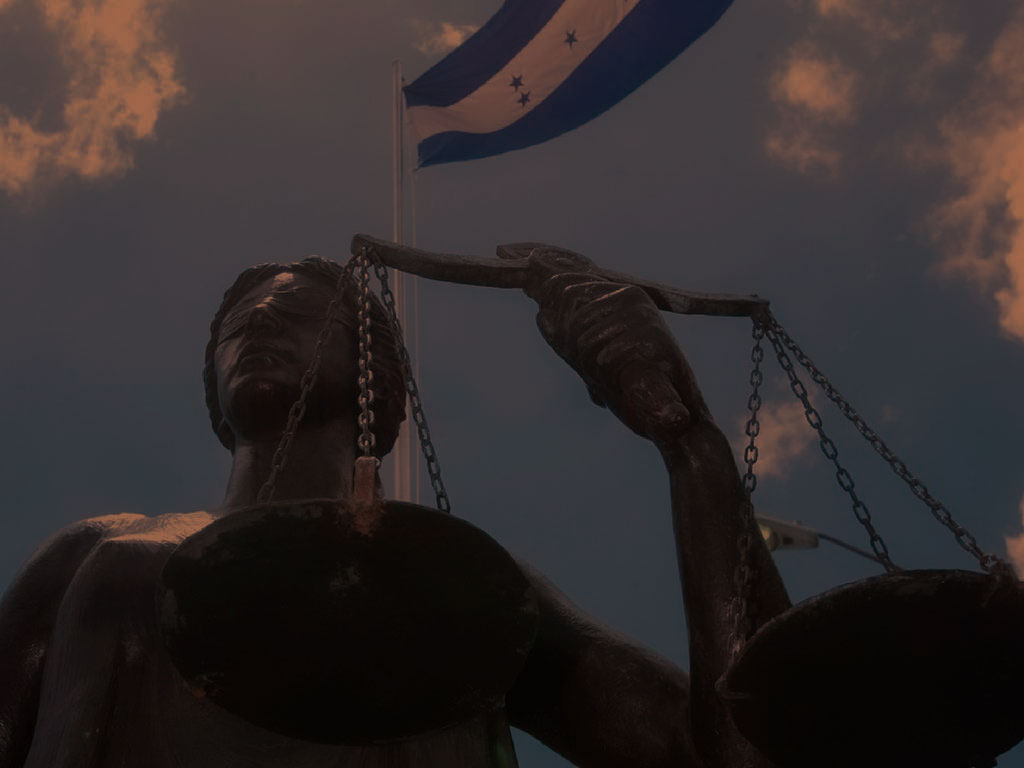
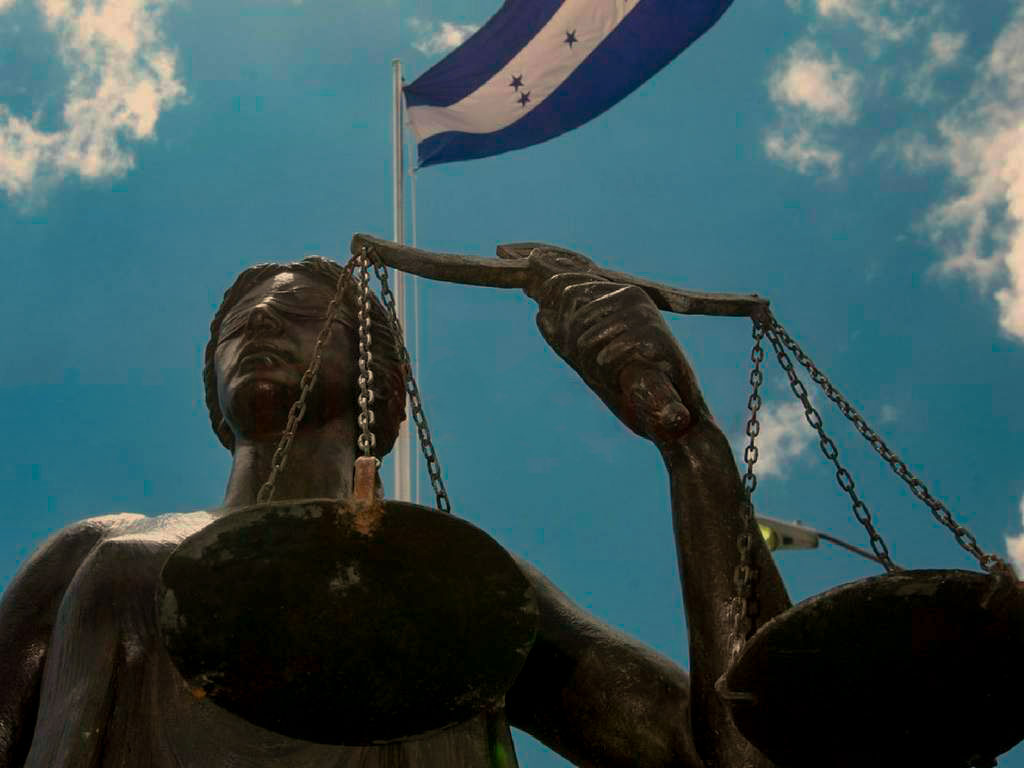
Fix-background image

diff --git a/portal/css/style.css b/portal/css/style.css
@@ -45,14 +45,14 @@ body {
 }
 .btn-primary-header {
   color: #fff;
-  background-color: #375D81;
+  background-color: #012840;
   border-color: #375D81;
   padding: 1rem 4.75rem;
 }
 .btn-primary-header:hover {
   color: #fff;
-  background-color:#012840;
-  border-color: #012840;
+  background-color:#03658C;
+  border-color: #03658C
 }
 .btn-primary {
   color: #fff;
